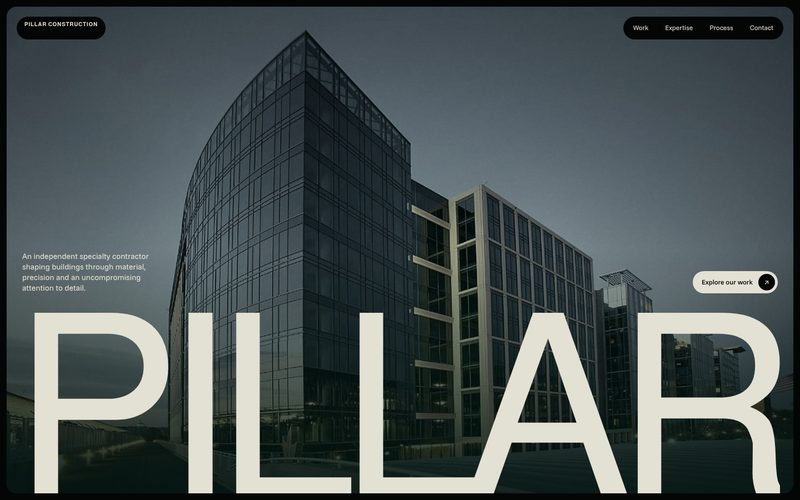
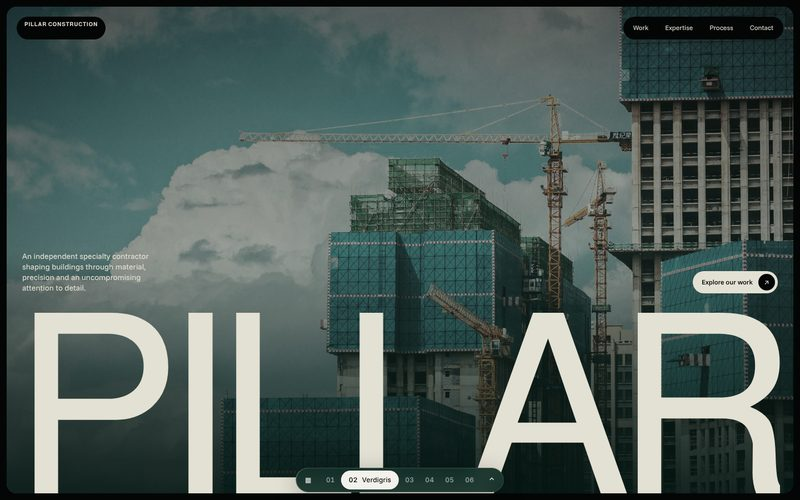
Swap atmosphere photos for Unsplash stock, add feathered vignette grade
Replace the uncaptioned hero, intro, contact and footer images in all six
options with high-resolution Unsplash photos (credits in assets/img/s).
Project, team, press and Exterior Panel imagery stays Pillar's own.
Rework the grading vignette into a feathered elliptical falloff with a
faint warm edge, raise its strength per direction, deepen hero scrims on
01 and 05 for legibility, and regenerate the hub previews.

Claude-Session: https://claude.ai/code/session_01KxoBHkCvMFPP1jtcqjA8ZD

diff --git a/02-verdigris.html b/02-verdigris.html
@@ -175,7 +175,7 @@ h1,h2,h3{margin:0;font-family:var(--disp);font-weight:400;text-wrap:balance;lett
 <main id="top">
   <section class="hero wrap">
     <div class="hcard">
-      <div class="bg"><img id="hbg" data-g="assets/img/p/V17-004D.jpg" data-eager alt="Hilton Garden Inn, West End"></div>
+      <div class="bg"><img id="hbg" data-g="assets/img/s/teal-glass-cranes.jpg" data-eager alt="Glass towers under construction"></div>
       <div class="top"><span class="tag">PILLAR CONSTRUCTION</span><nav class="menu" aria-label="Main"><a href="#work">Work</a><a href="#expertise">Expertise</a><a href="#process">Process</a><a href="#contact">Contact</a></nav></div>
       <div class="mid"><p data-r="up">An independent specialty contractor shaping buildings through material, precision and an uncompromising attention to detail.</p><a class="pill" href="#work" data-mag="10">Explore our work <i>↗</i></a></div>
       <h1 class="word" aria-label="Pillar"><span>P</span><span>I</span><span>L</span><span>L</span><span>A</span><span>R</span></h1>
@@ -207,7 +207,7 @@ h1,h2,h3{margin:0;font-family:var(--disp);font-weight:400;text-wrap:balance;lett
   <section class="wrap" id="expertise">
     <div class="sec-h" style="padding-inline:clamp(12px,3vw,40px)"><div><div class="lab">Our expertise<sup>©</sup></div><h2 data-split="lines">Considered finishes.<br>Thoughtful details.</h2></div><p data-r="up" style="justify-self:end">From metal framing to the final coat, we self-perform every scope so the building feels intentional, durable, and unmistakably finished.</p></div>
     <div class="exp">
-      <div class="ecard img" data-m="unveil drift" data-cursor="View"><img data-g="assets/img/p/V13-007D.jpg" alt="Lobby interior"><span class="cap">Walls that move us.</span></div>
+      <div class="ecard img" data-m="unveil drift" data-cursor="View"><img data-g="assets/img/s/curved-facade.jpg" alt="Curving facade"><span class="cap">Walls that move us.</span></div>
       <div class="egrid" id="egrid"></div>
     </div>
   </section>
@@ -241,7 +241,7 @@ h1,h2,h3{margin:0;font-family:var(--disp);font-weight:400;text-wrap:balance;lett
   <section class="wrap" id="contact">
     <div class="cta">
       <div class="ccard"><div><div class="lab">Let's talk<sup>©</sup></div><h2 data-split="lines">Let's build something extraordinary.</h2></div><div><p>Every meaningful building begins with a conversation.</p><a class="pill" href="#foot" data-mag="10">Start the project <i>↗</i></a></div></div>
-      <div class="cimg" data-m="unveil zoomout" data-dir="left"><img data-g="assets/img/p/V13-007D.jpg" alt=""></div>
+      <div class="cimg" data-m="unveil zoomout" data-dir="left"><img data-g="assets/img/s/interior-corridor.jpg" alt=""></div>
     </div>
     <footer class="foot" id="foot">
       <div class="cols">
@@ -262,7 +262,7 @@ h1,h2,h3{margin:0;font-family:var(--disp);font-weight:400;text-wrap:balance;lett
 <script src="https://cdn.jsdelivr.net/npm/gsap@3.12.5/dist/ScrollTrigger.min.js"></script>
 <script src="assets/core.js"></script>
 <script>
-PX.init({id:'02',cursor:true,look:{ev:-.24,contrast:.3,gamma:[.98,1,.99],gain:[.96,1,.97],sat:.6,blue:.45,warm:.06,sh:[-.02,.035,.025],shAmt:.6,hi:[.03,.03,.012],hiAmt:.45,vig:.36,grain:.035,css:'saturate(.65) brightness(.8) contrast(1.12) hue-rotate(-8deg)'}});
+PX.init({id:'02',cursor:true,look:{ev:-.24,contrast:.3,gamma:[.98,1,.99],gain:[.96,1,.97],sat:.6,blue:.45,warm:.06,sh:[-.02,.035,.025],shAmt:.6,hi:[.03,.03,.012],hiAmt:.45,vig:.46,grain:.035,css:'saturate(.65) brightness(.8) contrast(1.12) hue-rotate(-8deg)'}});
 document.documentElement.style.setProperty('--px-cursor-bg','#e3e1d4');document.documentElement.style.setProperty('--px-cursor-fg','#040606');
 const {D,SV,img,pick,esc,loc,svcShort,$,$$}=PX;
 const I=(src,w=0,alt='')=>`<img data-g="${src}"${w?` data-gw="${w}"`:''} alt="${esc(alt)}">`;
@@ -308,7 +308,6 @@ $('#gz').innerHTML=GZ.map((p,i)=>`<button class="t ${i===4?'c':''}" data-lb="${p
 /* expertise cards: services with scope checklists */
 $('#egrid').innerHTML=D.services.slice(0,4).map((s,i)=>`<article class="ecard" data-r="up" style="--d:${i*.08}s"><div><div class="ic">${I(PX.svcImg(s),200)}</div><h3>${esc(s.title.split(' / ')[0])}.</h3></div><ul>${s.scopes.slice(0,4).map(x=>`<li>${esc(x)}</li>`).join('')}</ul></article>`).join('');
 
-$('.ecard.img').dataset.lb=PX.byImg['V13-007D'].id;
 
 /* process: sticky image swaps with active step */
 const STEPS=[['Partnering early','We get involved in the early design stages, alongside architects, owners and general contractors.','8521Rt'],

diff --git a/01-anatomy.html b/01-anatomy.html
@@ -35,7 +35,7 @@ h1,h2,h3{margin:0;font-weight:400;text-wrap:balance}
 .hero{position:relative;height:100vh;min-height:720px;overflow:hidden;color:#fff}
 .hero .bg{position:absolute;inset:0}
 .hero .bg img{width:100%;height:100%;object-fit:cover;transform:scale(1.12)}
-.hero::after{content:"";position:absolute;inset:0;background:linear-gradient(180deg,rgba(0,0,0,.35),transparent 35%,transparent 60%,rgba(0,0,0,.45))}
+.hero::after{content:"";position:absolute;inset:0;background:linear-gradient(90deg,rgba(0,0,0,.42),transparent 55%),linear-gradient(180deg,rgba(0,0,0,.5),rgba(0,0,0,.08) 42%,rgba(0,0,0,.08) 58%,rgba(0,0,0,.5))}
 .hero-t{position:absolute;left:var(--gut);top:92px;z-index:2}
 .hero h1{font:400 clamp(70px,8vw,128px)/.86 var(--disp);letter-spacing:-.01em}
 .hero .ctas{display:flex;gap:26px;margin-top:22px}
@@ -183,12 +183,12 @@ h1,h2,h3{margin:0;font-weight:400;text-wrap:balance}
 
 <main id="top">
   <section class="hero" data-m="shrink" data-r="22">
-    <div class="bg"><img id="hbg" data-g="assets/img/p/V18-002R.jpg" data-eager alt="Pavilion at dusk"></div>
+    <div class="bg"><img id="hbg" data-g="assets/img/s/facade-dusk.jpg" data-eager alt="Modern facade at dusk"></div>
     <div class="hero-t">
       <h1 data-split="chars">Built,<br>Considered.</h1>
       <div class="ctas" data-r="fade" style="--d:.8s"><a href="#index">Explore projects →</a><a href="#anatomy">See the panel →</a></div>
     </div>
-    <div class="meta wrap" data-r="fade" style="--d:1s"><span>Featured residence</span><span>Specialty contractor</span><span>Since 1995</span><span>Explore</span></div>
+    <div class="meta wrap" data-r="fade" style="--d:1s"><span>Building envelopes</span><span>Specialty contractor</span><span>Since 1995</span><span>Explore</span></div>
     <p class="note" data-r="up" style="--d:1.1s">A building is more than its frame. It is how every layer meets the next.</p>
   </section>
 
@@ -224,7 +224,7 @@ h1,h2,h3{margin:0;font-weight:400;text-wrap:balance}
 
   <section class="wm" aria-label="Pillar wordmark">
     <div class="stage">
-      <div class="row" id="wmrow"><span>PILLAR / BUILD</span><span>PILLAR / BUILD</span></div><div class="win" id="win"><img data-g="assets/img/p/V17-004D.jpg" data-eager alt=""></div><div id="flys"></div>
+      <div class="row" id="wmrow"><span>PILLAR / BUILD</span><span>PILLAR / BUILD</span></div><div class="win" id="win"><img data-g="assets/img/s/facade-fins.jpg" data-eager alt=""></div><div id="flys"></div>
       <div class="over" id="wmo"><h3>Every layer has a reason.</h3></div>
     </div>
   </section>
@@ -257,7 +257,7 @@ h1,h2,h3{margin:0;font-weight:400;text-wrap:balance}
   </section>
 
   <section class="end wrap" id="end" data-m="expand" data-end="top top" data-r="22">
-    <div class="bg"><img data-g="assets/img/p/Oakvile_Inova_1.jpg" alt=""></div>
+    <div class="bg"><img data-g="assets/img/s/stone-facade.jpg" alt=""></div>
     <div class="in">
       <h2>Build,<br>considered.</h2>
       <p><b>Write</b><span id="em" style="user-select:all"></span><br><span id="ph"></span></p>
@@ -274,7 +274,7 @@ h1,h2,h3{margin:0;font-weight:400;text-wrap:balance}
 <script src="https://cdn.jsdelivr.net/npm/three@0.149.0/build/three.min.js"></script>
 <script src="assets/core.js"></script>
 <script>
-PX.init({id:'01',cursor:true,look:{ev:.04,contrast:.2,gain:[1.035,1,.93],lift:[.012,.004,.02],sat:.9,blue:.28,warm:.38,hi:[.05,.022,-.03],hiAmt:.85,sh:[-.025,0,.045],shAmt:.55,grain:.02,vig:.12,css:'sepia(.18) saturate(.95) contrast(1.05)'}});
+PX.init({id:'01',cursor:true,look:{ev:.04,contrast:.2,gain:[1.035,1,.93],lift:[.012,.004,.02],sat:.9,blue:.28,warm:.38,hi:[.05,.022,-.03],hiAmt:.85,sh:[-.025,0,.045],shAmt:.55,grain:.02,vig:.34,css:'sepia(.18) saturate(.95) contrast(1.05)'}});
 document.documentElement.style.setProperty('--px-cursor-bg','#1d2f7c');document.documentElement.style.setProperty('--px-cursor-fg','#fff');
 const {D,SV,img,pick,esc,loc,svcShort,$,$$}=PX;
 const I=(src,w=0,alt='')=>`<img data-g="${src}"${w?` data-gw="${w}"`:''} alt="${esc(alt)}">`;

diff --git a/05-studio.html b/05-studio.html
@@ -35,7 +35,7 @@ h1,h2,h3{margin:0;font-weight:600;letter-spacing:-.03em;text-wrap:balance}
 /* hero */
 .hero{position:relative;height:100vh;min-height:720px;overflow:hidden;color:#fff;background:#111}
 .hero .bg{position:absolute;inset:0}.hero .bg img{width:100%;height:100%;object-fit:cover}
-.hero::after{content:"";position:absolute;inset:0;background:linear-gradient(0deg,rgba(0,0,0,.55),rgba(0,0,0,.1) 45%,rgba(0,0,0,.25))}
+.hero::after{content:"";position:absolute;inset:0;background:linear-gradient(0deg,rgba(0,0,0,.6),rgba(0,0,0,.15) 45%,rgba(0,0,0,.2) 80%,rgba(0,0,0,.55))}
 .hero .t{position:absolute;left:var(--gut);top:38%;z-index:2;max-width:34ch;font-size:16px;line-height:1.25;font-weight:500}
 .hero .t .chip{margin-top:16px}
 .wm{position:absolute;left:var(--gut);right:var(--gut);bottom:-2.2vw;z-index:2;display:flex;align-items:baseline;gap:.12em;white-space:nowrap;cursor:default;user-select:none}
@@ -148,7 +148,7 @@ h1,h2,h3{margin:0;font-weight:600;letter-spacing:-.03em;text-wrap:balance}
 
 <main id="top">
   <section class="hero">
-    <div class="bg"><img id="hbg" data-g="assets/img/p/V19-019R.jpg" data-eager alt="Mixed-use building with bronze fins"></div>
+    <div class="bg"><img id="hbg" data-g="assets/img/s/mono-facade.jpg" data-eager alt="Contemporary residential facade"></div>
     <div class="t" data-r="up">Finishing buildings that balance clarity, comfort, and durability, transforming everyday structures into considered places.<br><a class="chip" href="#contact" data-mag="6"><i>→</i>Get In Touch</a></div>
     <h1 class="wm" id="wm" aria-label="pillar finish"><span class="a" id="wa"></span><span class="b">finish</span></h1>
   </section>
@@ -188,7 +188,7 @@ h1,h2,h3{margin:0;font-weight:600;letter-spacing:-.03em;text-wrap:balance}
   <section class="cta wrap" id="contact">
     <div class="l"><div><h2 class="up" data-split="lines">Start a thoughtful build process</h2><p>Let's work together on a building that reflects your vision, guided by a process focused on detail, balance, and long-term performance.</p><a class="chip dk" href="#foot"><i>→</i>Get In Touch With Us</a></div>
       <div><p style="margin:0">Partnering with owners and builders since 1995</p><div class="avs" id="avs"></div></div></div>
-    <div class="big" data-m="unveil drift" data-dir="down"><img data-g="assets/img/p/8302Rt.jpg" alt="Glass tower"></div>
+    <div class="big" data-m="unveil drift" data-dir="down"><img data-g="assets/img/s/site-team.jpg" alt="Crew on a construction site"></div>
   </section>
 </main>
 
@@ -209,7 +209,7 @@ h1,h2,h3{margin:0;font-weight:600;letter-spacing:-.03em;text-wrap:balance}
 <script src="https://cdn.jsdelivr.net/npm/gsap@3.12.5/dist/ScrollTrigger.min.js"></script>
 <script src="assets/core.js"></script>
 <script>
-PX.init({id:'05',cursor:true,look:{ev:-.05,contrast:.34,sat:.9,blue:.32,warm:.26,gain:[1.02,1,.955],hi:[.03,.02,0],hiAmt:.5,sh:[0,0,.02],shAmt:.3,vig:.22,grain:.02,css:'contrast(1.12) saturate(.92) sepia(.1)'},looks:{av:{ev:.02,contrast:.2,sat:.7,warm:.15,grain:.01}}});
+PX.init({id:'05',cursor:true,look:{ev:-.05,contrast:.34,sat:.9,blue:.32,warm:.26,gain:[1.02,1,.955],hi:[.03,.02,0],hiAmt:.5,sh:[0,0,.02],shAmt:.3,vig:.34,grain:.02,css:'contrast(1.12) saturate(.92) sepia(.1)'},looks:{av:{ev:.02,contrast:.2,sat:.7,warm:.15,grain:.01}}});
 document.documentElement.style.setProperty('--px-cursor-bg','#fff');document.documentElement.style.setProperty('--px-cursor-fg','#0d0d0d');
 const {D,SV,stats,img,pick,esc,loc,svcShort,$,$$}=PX;
 const I=(src,w=0,alt='',gl='')=>`<img data-g="${src}"${w?` data-gw="${w}"`:''}${gl?` data-gl="${gl}"`:''} alt="${esc(alt)}">`;

diff --git a/06-nord.html b/06-nord.html
@@ -159,12 +159,12 @@ h1,h2,h3{margin:0;font-weight:500;letter-spacing:-.04em;text-wrap:balance}
       <p class="txt" data-r="up">Founded in 1995, Pillar is driven by a deep respect for craft and the rhythm of urban building. We focus on interiors and envelopes that enhance city landscapes, combining simplicity, functionality and a durable finish.</p>
       <p class="txt" data-r="up">Guided by <b>Raja Khoury</b> and <b>Mike Chalabi</b>, the team works closely with owners, developers and general contractors to shape the buildings people live and work in.</p>
       <div class="nums" id="nums"></div></div>
-    <div class="col2"><div class="ph a" data-m="unveil drift" data-dir="left"><img data-g="assets/img/p/College_Park_City_Hall_1.jpg" data-gw="1000" alt=""></div><div class="ph b" data-m="unveil drift" data-dir="right" data-delay=".15"><img data-g="assets/img/p/8621Rt.jpg" data-gw="800" alt=""></div></div>
+    <div class="col2"><div class="ph a" data-m="unveil drift" data-dir="left"><img data-g="assets/img/s/white-cubes.jpg" data-gw="1000" alt=""></div><div class="ph b" data-m="unveil drift" data-dir="right" data-delay=".15"><img data-g="assets/img/s/twin-towers.jpg" data-gw="800" alt=""></div></div>
   </section>
 
   <section class="facade" aria-label="Statement">
     <div class="stage">
-      <div class="bg" id="fmask"><img id="fbg" data-g="assets/img/p/Oakvile_Inova_1.jpg" data-eager alt=""></div><div class="full" id="ffull"><img id="ffimg" data-g="assets/img/p/Oakvile_Inova_1.jpg" data-eager alt=""></div><div class="wsh" id="fwsh"></div>
+      <div class="bg" id="fmask"><img id="fbg" data-g="assets/img/s/angular-white.jpg" data-eager alt=""></div><div class="full" id="ffull"><img id="ffimg" data-g="assets/img/s/angular-white.jpg" data-eager alt=""></div><div class="wsh" id="fwsh"></div>
       <span class="lbl" id="flbl">Keep scrolling</span>
       <h2 id="fh">Crafting buildings where natural light meets timeless, functional design.</h2>
     </div>
@@ -216,7 +216,7 @@ h1,h2,h3{margin:0;font-weight:500;letter-spacing:-.04em;text-wrap:balance}
 <script src="https://cdn.jsdelivr.net/npm/gsap@3.12.5/dist/ScrollTrigger.min.js"></script>
 <script src="assets/core.js"></script>
 <script>
-PX.init({id:'06',cursor:true,curtain:false,look:{ev:.02,contrast:.26,sat:.82,blue:-.04,gain:[.96,1,1.04],lift:[0,.012,.02],hi:[.02,.02,0],hiAmt:.35,sh:[-.03,.01,.04],shAmt:.6,grain:.02,vig:.12,css:'contrast(1.08) saturate(.9) hue-rotate(6deg)'},looks:{mono:{contrast:.3,mono:1,grain:.02}}});
+PX.init({id:'06',cursor:true,curtain:false,look:{ev:.02,contrast:.26,sat:.82,blue:-.04,gain:[.96,1,1.04],lift:[0,.012,.02],hi:[.02,.02,0],hiAmt:.35,sh:[-.03,.01,.04],shAmt:.6,grain:.02,vig:.28,css:'contrast(1.08) saturate(.9) hue-rotate(6deg)'},looks:{mono:{contrast:.3,mono:1,grain:.02}}});
 const {D,SV,stats,img,pick,esc,loc,svcShort,$,$$}=PX;
 const I=(src,w=0,alt='',gl='')=>`<img data-g="${src}"${w?` data-gw="${w}"`:''}${gl?` data-gl="${gl}"`:''} alt="${esc(alt)}">`;
 gsap.registerPlugin(ScrollTrigger);

diff --git a/03-filmstrip.html b/03-filmstrip.html
@@ -152,7 +152,7 @@ textarea{min-height:90px;resize:vertical}
 
 <main id="top">
   <section class="hero">
-    <div class="bg"><img id="hbg" data-g="assets/img/p/V17-007R.jpg" data-eager alt="Residential building at dusk"></div>
+    <div class="bg"><img id="hbg" data-g="assets/img/s/canal-dusk.jpg" data-eager alt="City waterfront at dusk"></div>
     <div class="t"><h1 data-split="lines">PILLAR<small>CONSTRUCTION.</small></h1></div>
     <div class="meta" data-r="fade" style="--d:.6s"><span>BASED IN ALEXANDRIA, VA</span><span>//</span><span>SINCE 1995</span></div>
     <p class="blurb" data-r="up" style="--d:.7s">Pillar builds interiors and envelopes that feel considered, look timeless, and work for the people inside them.</p>
@@ -193,9 +193,9 @@ textarea{min-height:90px;resize:vertical}
   <section class="ct wrap" id="contact">
     <div class="left">
       <div class="box"><div class="mono">Email</div><b id="em"></b></div>
-      <div class="im" data-m="unveil drift" data-dir="right"><img data-g="assets/img/p/7655Rt.jpg" data-gw="900" alt=""></div>
+      <div class="im" data-m="unveil drift" data-dir="right"><img data-g="assets/img/s/site-aerial.jpg" data-gw="900" alt=""></div>
       <div class="box"><div class="mono">Phone</div><b id="ph"></b></div>
-      <div class="im" data-m="unveil drift" data-dir="left" data-delay=".1"><img data-g="assets/img/p/The_Westerly_Waterfront_1.jpg" data-gw="900" alt=""></div>
+      <div class="im" data-m="unveil drift" data-dir="left" data-delay=".1"><img data-g="assets/img/s/site-engineers.jpg" data-gw="900" alt=""></div>
     </div>
     <div>
       <h2 data-split="lines">Let's work together.</h2>
@@ -223,7 +223,7 @@ textarea{min-height:90px;resize:vertical}
 <script src="https://cdn.jsdelivr.net/npm/gsap@3.12.5/dist/ScrollTrigger.min.js"></script>
 <script src="assets/core.js"></script>
 <script>
-PX.init({id:'03',look:{ev:-.06,contrast:.24,sat:.5,blue:.55,warm:.14,fade:.045,lift:[.018,.016,.014],sh:[.01,.008,0],shAmt:.3,hi:[.02,.014,0],hiAmt:.35,grain:.04,vig:.2,css:'saturate(.5) contrast(1.05) sepia(.12)'}});
+PX.init({id:'03',look:{ev:-.06,contrast:.24,sat:.5,blue:.55,warm:.14,fade:.045,lift:[.018,.016,.014],sh:[.01,.008,0],shAmt:.3,hi:[.02,.014,0],hiAmt:.35,grain:.04,vig:.36,css:'saturate(.5) contrast(1.05) sepia(.12)'}});
 const {D,SV,img,pick,esc,loc,svcShort,$,$$}=PX;
 const I=(src,w=0,alt='')=>`<img data-g="${src}"${w?` data-gw="${w}"`:''} alt="${esc(alt)}">`;
 gsap.registerPlugin(ScrollTrigger);

diff --git a/04-monolith.html b/04-monolith.html
@@ -142,7 +142,7 @@ h1,h2,h3{margin:0;font-weight:300;letter-spacing:-.05em;text-wrap:balance}
 <main id="top">
   <section class="hero">
     <div class="stage">
-      <div class="bg"><img id="hbg" data-g="assets/img/h/news5.jpg" data-eager alt="Sculptural stair in a glass atrium"></div>
+      <div class="bg"><img id="hbg" data-g="assets/img/s/dark-tower.jpg" data-eager alt="Glass tower at dusk"></div>
       <div class="shade"></div>
       <div class="lab">Specialty<br>Contractor</div>
       <h1 id="h1">Specialty<br>Contractor</h1>
@@ -155,7 +155,7 @@ h1,h2,h3{margin:0;font-weight:300;letter-spacing:-.05em;text-wrap:balance}
     <div class="l">
       <div class="up">About Pillar</div>
       <div class="sticky" id="stk">
-        <img data-g="assets/img/p/V12-026.jpg" alt="Glass tower">
+        <img data-g="assets/img/s/fog-towers.jpg" alt="Glass towers in fog">
         <div class="awards" id="awards"></div>
       </div>
     </div>
@@ -217,7 +217,7 @@ h1,h2,h3{margin:0;font-weight:300;letter-spacing:-.05em;text-wrap:balance}
 <script src="assets/core.js"></script>
 <script>
 PX.init({id:'04',cursor:true,
- look:{ev:-.04,contrast:.2,sat:.36,blue:.62,warm:.2,fade:.03,lift:[.012,.01,.006],hi:[.03,.024,.012],hiAmt:.5,sh:[.004,-.004,-.01],shAmt:.3,grain:.03,vig:.14,css:'saturate(.38) sepia(.15) contrast(1.04)'},
+ look:{ev:-.04,contrast:.2,sat:.36,blue:.62,warm:.2,fade:.03,lift:[.012,.01,.006],hi:[.03,.024,.012],hiAmt:.5,sh:[.004,-.004,-.01],shAmt:.3,grain:.03,vig:.36,css:'saturate(.38) sepia(.15) contrast(1.04)'},
  looks:{mono:{ev:.02,contrast:.28,mono:1,hi:[.03,.02,.005],hiAmt:.6,sh:[0,-.004,-.012],shAmt:.4,grain:.03},warm:{ev:.03,contrast:.18,sat:.8,warm:.15,hi:[.02,.012,0],hiAmt:.4,grain:.02}}});
 document.documentElement.style.setProperty('--px-cursor-bg','#121212');document.documentElement.style.setProperty('--px-cursor-fg','#fff');
 const {D,SV,img,pick,esc,loc,svcShort,$,$$}=PX;

diff --git a/assets/core.js b/assets/core.js
@@ -84,7 +84,10 @@
         if(warm){ r+=warm*.06*(1-l*.3); b-=warm*.06*(1-l*.3); }
         const ws=(1-l)*(1-l)*sa, wh=l*l*ha;
         r+=sh[0]*ws+hi[0]*wh; g+=sh[1]*ws+hi[1]*wh; b+=sh[2]*ws+hi[2]*wh;
-        if(vig){ const v=1-vig*(((x-cx)*(x-cx)+dy)/md); r*=v; g*=v; b*=v; }
+        if(vig){ /* feathered elliptical vignette: clean centre, smooth roll-off, faint warm edge */
+          const nx=(x-cx)/cx, ny=(y-cy)/cy, dd=Math.sqrt((nx*nx+ny*ny)*.5);
+          let t=Math.min(1,Math.max(0,(dd-.32)/.78)); t=t*t*(3-2*t);
+          const v=1-vig*t*(1.1-l*.35), tint=vig*t*.05; r=r*v+tint*.5*(1-l); g=g*v+tint*.25*(1-l); b=b*v; }
         if(gr){ seed=(seed*1103515245+12345)&0x7fffffff; const n=(seed/0x7fffffff-.5)*gr*(1-Math.abs(l-.5)); r+=n; g+=n; b+=n; }
         d[i]=r*255; d[i+1]=g*255; d[i+2]=b*255;
       }

diff --git a/assets/img/s/CREDITS.md b/assets/img/s/CREDITS.md
@@ -1,0 +1,25 @@
+# Stock atmosphere photography
+
+All images in this folder are from Unsplash, under the Unsplash License (free for commercial and
+non-commercial use, no attribution required). Source: `https://images.unsplash.com/photo-<id>`.
+They are used only for atmosphere (heroes, intros, contact and footer panels). Project, team,
+press, affiliation and Exterior Panel imagery stays Pillar's own.
+
+| File | Unsplash photo id | Used in |
+|---|---|---|
+| facade-dusk.jpg | 1574958269340-fa927503f3dd | 01 Anatomy hero |
+| facade-fins.jpg | 1488972685288-c3fd157d7c7a | 01 Anatomy "Every layer has a reason" |
+| stone-facade.jpg | 1448630360428-65456885c650 | 01 Anatomy footer |
+| teal-glass-cranes.jpg | 1565008447742-97f6f38c985c | 02 Verdigris hero |
+| curved-facade.jpg | 1518005020951-eccb494ad742 | 02 Verdigris "Walls that move us" |
+| interior-corridor.jpg | 1497366216548-37526070297c | 02 Verdigris contact |
+| canal-dusk.jpg | 1519999482648-25049ddd37b1 | 03 Filmstrip hero |
+| site-aerial.jpg | 1504307651254-35680f356dfd | 03 Filmstrip contact |
+| site-engineers.jpg | 1626885930974-4b69aa21bbf9 | 03 Filmstrip contact |
+| dark-tower.jpg | 1511818966892-d7d671e672a2 | 04 Monolith hero |
+| fog-towers.jpg | 1449157291145-7efd050a4d0e | 04 Monolith intro |
+| mono-facade.jpg | 1515263487990-61b07816b324 | 05 Studio hero |
+| site-team.jpg | 1541888946425-d81bb19240f5 | 05 Studio "Partnering since 1995" |
+| white-cubes.jpg | 1479839672679-a46483c0e7c8 | 06 Nord intro stack |
+| twin-towers.jpg | 1534237710431-e2fc698436d0 | 06 Nord intro stack |
+| angular-white.jpg | 1487958449943-2429e8be8625 | 06 Nord hero / footer |
